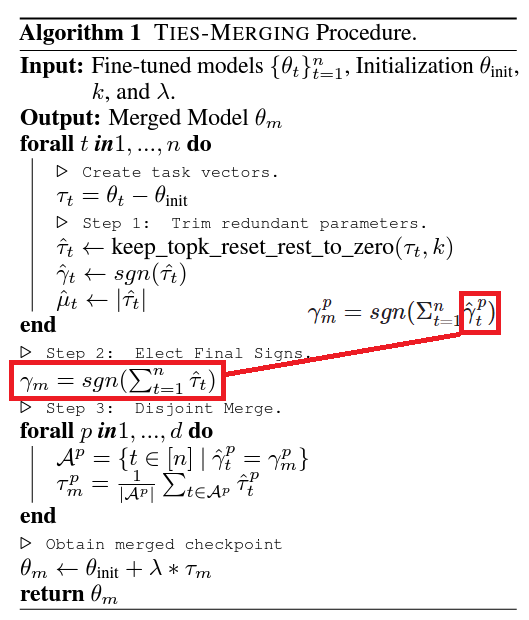
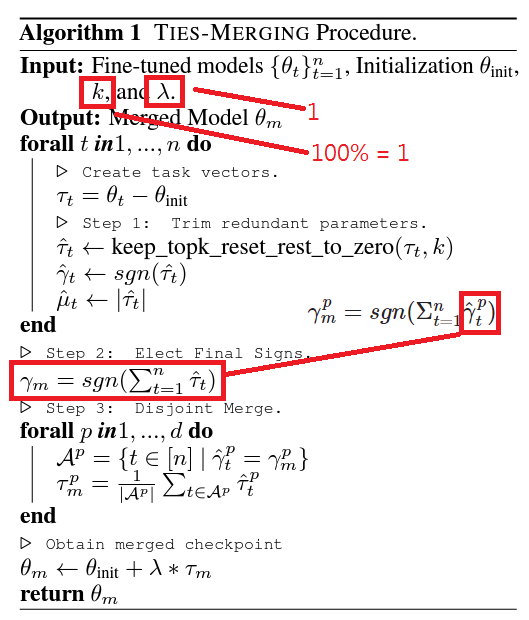
algo of ties-soup

Changed region(s): [[0.3932, 0.1532, 0.6957, 0.2758], [0.1512, 0.1226, 0.4234, 0.2145], [0.7561, 0.2452, 0.7864, 0.2758]]

diff --git a/ch01/ties.md b/ch01/ties.md
@@ -34,7 +34,9 @@ Paper: [TIES-Merging: Resolving Interference When Merging Models](https://arxiv.
 
 ### Math discussion ###
 
-*Looks like I don't have to write the formulas again?*
+~~Looks like I don't have to write the formulas again?~~ I did it eventually.
+
+![24050502.png](./img/24050502.png)
 
 - Switching from "sum of weights" to "sum of signs", it will be interprepted as "voting of signs". $\gamma_m^p = sgn(\Sigma_{t=1}^n \hat{\gamma}_t^p)$
 
